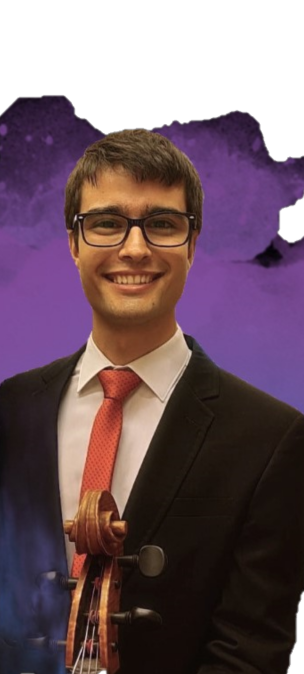
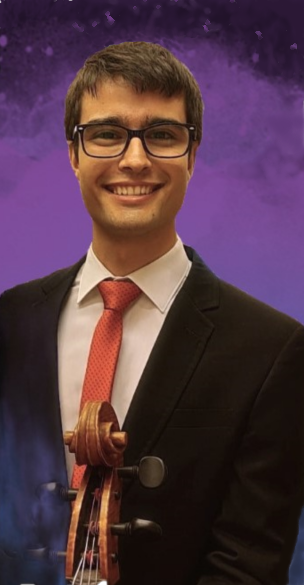
Fix images in aboutPage

diff --git a/src/components/AboutCard.jsx b/src/components/AboutCard.jsx
@@ -12,11 +12,9 @@ const AboutCard = () => {
                 <p className='ParagAboutCard'>
                     Disciplined person, with good performance and very collaborative in team-working. Skills and understanding of HTML, CSS, JavaScript, React and other technologies. With ability to learn new skills quickly.
                 </p>
-                <p className='ParagAboutCard'>Just a calm boy with great curiosity of learning new things.</p>
-                <p className='ParagAboutCard'>
-                    Interested in working on projects with positive people.
-                </p>
-                <img src={foto} alt='foto David' style={{height:'50vh',width:'10.8vw', marginLeft:'35%', borderRadius:'20px', marginBottom:'5%', marginTop:'-10%'}}></img>
+                <p className='ParagAboutCard'>Just a calm boy with great curiosity of learning new things. Interested in working on projects with positive people.</p>
+
+                <img src={foto} alt='foto David' style={{ height: '53vh', width: '13vw', marginLeft: '32%', borderRadius: '20px', marginBottom: '2%', marginTop: '1%', boxShadow: '5px -2px 8px rgba(0, 0, 0, 0.5)'}}></img>
             </div>
         </section>
     );

diff --git a/src/components/ProfileCard.jsx b/src/components/ProfileCard.jsx
@@ -9,6 +9,7 @@ import mail from "../assets/mail-color.png";
 import webPage from "../assets/web-color.png";
 import location from "../assets/location-color.png";
 import download from "../assets/download.png";
+import perfil from '../assets/perfil.jpg';
 
 import './ProfileCard.css'
 
@@ -17,7 +18,7 @@ const ProfileCard = () => {
         <section id="profile-card" className="profileCardContainer">
             <article className="profile-card">
                 <div className="profile-img">
-                    <img src='https://avatars.githubusercontent.com/u/168454401?s=400&u=180c25b200fef4edfda6fd3c521be3d6615c656e&v=4' alt="David Grande" />
+                    <img src={perfil} alt="David Grande" />
                 </div>
                 <h1 className="display-name">David Grande Jiménez</h1>
                 <h2 className="career-title">Web Developer</h2>

diff --git a/src/components/AboutCard.css b/src/components/AboutCard.css
@@ -2,7 +2,7 @@
     border: 2px solid rgba(255, 255, 255, 0.8);
     background: radial-gradient(circle, rgba(133, 0, 64, 0.307), rgba(255, 255, 255, 0.9));
     border-radius: 1rem;
-    padding: 2rem;
+    padding: 1.5rem;
     margin: 0 5rem;
     display: flex;
     flex-direction: column;

diff --git a/src/components/ProfileCard.css b/src/components/ProfileCard.css
@@ -58,7 +58,7 @@
 }
 
 .social img {
-    width: 70%;
+    width: 85%;
     transition: all 0.5s ease-in-out;
     border: 2px solid rgba(255, 255, 255, 0.9);
     border-radius: 50%;
